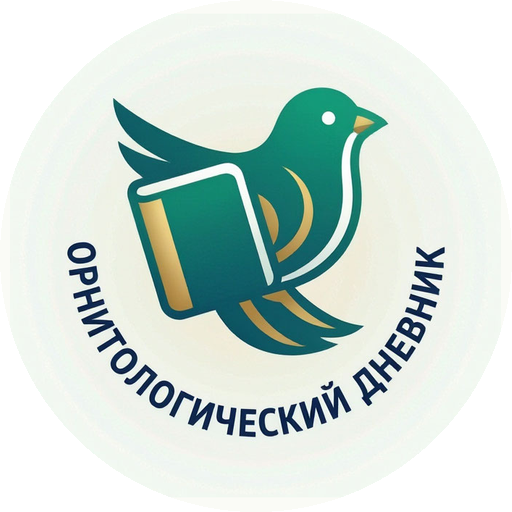
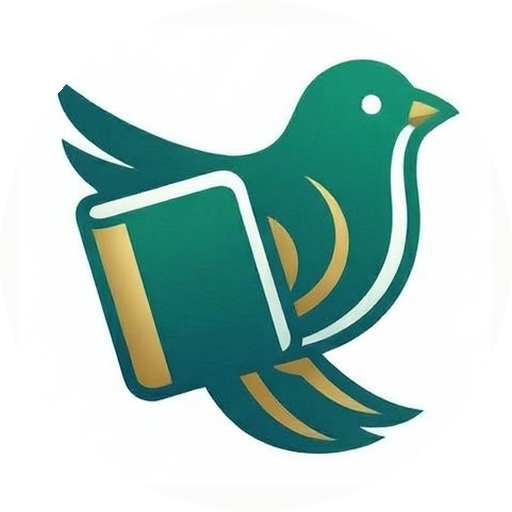
Описание по реальным возможностям и новая иконка приложения

diff --git a/README.md b/README.md
@@ -104,10 +104,3 @@
 Учебный проект по дисциплине «Разработка мобильных приложений», ОГУ им. И. С. Тургенева.
 
 - GitHub: [@Vladizslav](https://github.com/Vladizslav)
-
-
-
-
-
-<img width="1024" height="1024" alt="9e7d61a4d97611f1926f0613a8b8f09b_1" src="https://github.com/user-attachments/assets/6ce75bff-eecf-4ab4-8083-9e2165fa8bdf" />
-
